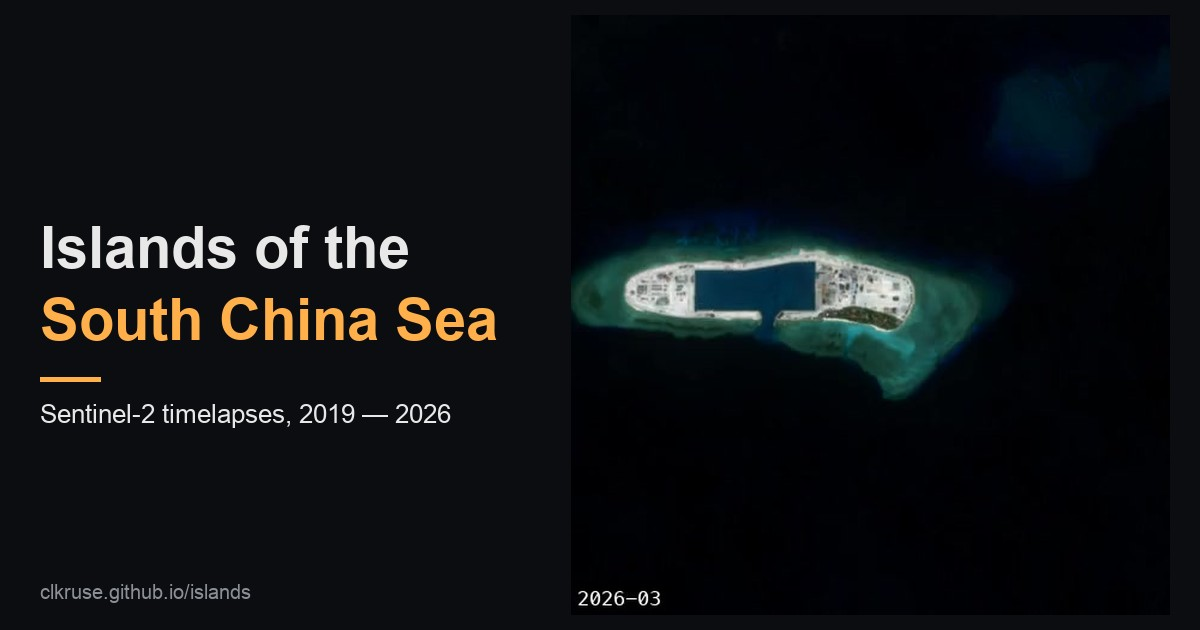
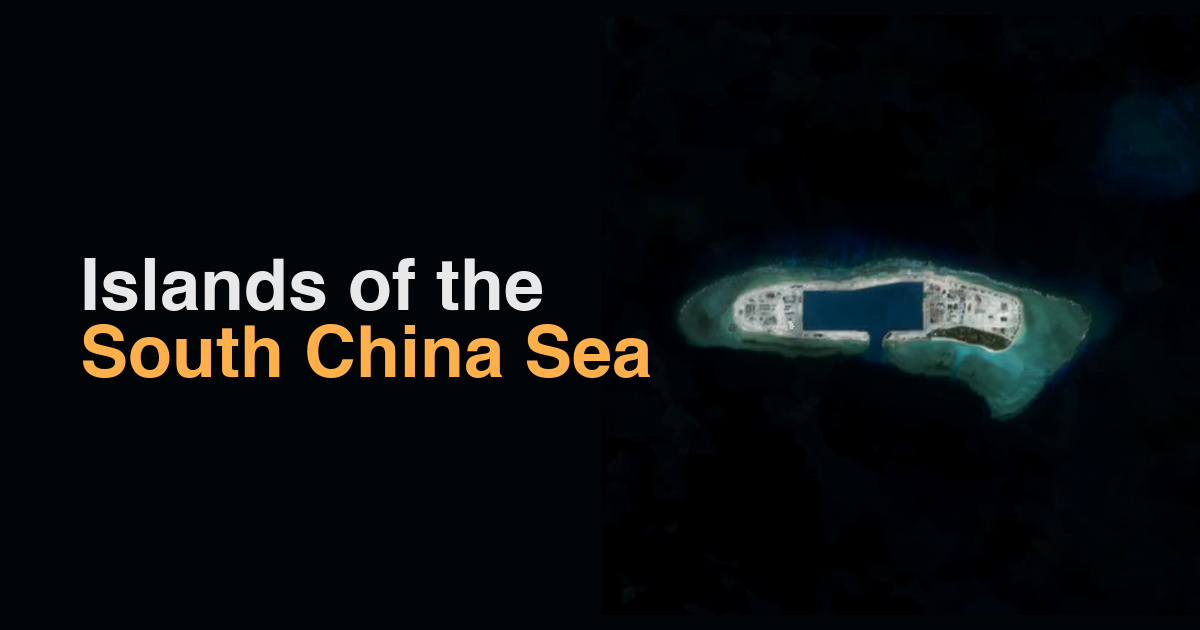
Update og card

diff --git a/islands/pipeline/build_og_card.py b/islands/pipeline/build_og_card.py
@@ -1,0 +1,185 @@
+"""Build the OG / social card for the islands page.
+
+Outputs (1200×630):
+  assets/og-card.jpg  — static frame
+  assets/og-card.mp4  — animated card
+  assets/og-card.gif  — animated GIF
+
+Layout: title on the left, Namyit Island timelapse on the right.
+
+Usage:  python pipeline/build_og_card.py
+"""
+
+from __future__ import annotations
+
+import subprocess
+from pathlib import Path
+
+from PIL import Image, ImageDraw, ImageFont
+
+ROOT = Path(__file__).resolve().parent.parent
+ASSETS = ROOT / "assets"
+SOURCE_VIDEO = ASSETS / "videos" / "namyit-island.mp4"
+
+OUT_JPG = ASSETS / "og-card.jpg"
+OUT_MP4 = ASSETS / "og-card.mp4"
+OUT_GIF = ASSETS / "og-card.gif"
+TMP_OVERLAY = Path("/tmp/og-overlay.png")
+TMP_PALETTE = Path("/tmp/og-palette.png")
+
+W, H = 1200, 630
+LEFT_W = 600
+
+BG = (1, 5, 8, 255)           # #010508 — sampled from deep SCS water
+BG_HEX = "0x010508"           # ffmpeg form
+FG = (232, 232, 232, 255)     # #e8e8e8
+ACCENT = (255, 176, 74, 255)  # #ffb04a
+
+# Right pane: place the 500×500 timelapse scaled up to 600×600, centered
+# vertically inside the 630-tall canvas.
+RIGHT_X = LEFT_W
+RIGHT_Y = (H - 600) // 2
+RIGHT_SIZE = 600
+
+# Each timelapse runs from 2019-01 at 10 fps (1 frame per month). Show
+# 2020-06 → 2025-12: skip first 17 frames, then play 67 frames = 6.7s.
+TRIM_START_S = 1.7
+DURATION_S = 6.7
+
+FONT_CANDIDATES = [
+    "/System/Library/Fonts/Supplemental/Helvetica.ttc",
+    "/System/Library/Fonts/Helvetica.ttc",
+    "/System/Library/Fonts/Supplemental/HelveticaNeue.ttc",
+    "/System/Library/Fonts/Supplemental/Arial.ttf",
+]
+
+
+def load_font(size: int, weight_index: int = 1) -> ImageFont.FreeTypeFont:
+    for path in FONT_CANDIDATES:
+        try:
+            return ImageFont.truetype(path, size, index=weight_index)
+        except (OSError, IOError):
+            continue
+    return ImageFont.load_default()
+
+
+def text_size(font: ImageFont.FreeTypeFont, s: str) -> tuple[int, int]:
+    bbox = font.getbbox(s)
+    return bbox[2] - bbox[0], bbox[3] - bbox[1]
+
+
+def render_overlay() -> None:
+    """Render the 1200×630 overlay: solid left panel with the title; right
+    side fully transparent so the video shows through."""
+    img = Image.new("RGBA", (W, H), (0, 0, 0, 0))
+    draw = ImageDraw.Draw(img)
+    draw.rectangle([(0, 0), (LEFT_W, H)], fill=BG)
+
+    line1 = "Islands of the"
+    line2 = "South China Sea"
+
+    font = load_font(72, weight_index=1)  # Helvetica Bold
+    pad_x = 80
+    line_gap = 14
+
+    w1, h1 = text_size(font, line1)
+    w2, h2 = text_size(font, line2)
+    total_h = h1 + line_gap + h2
+    y0 = (H - total_h) // 2
+
+    draw.text((pad_x, y0), line1, font=font, fill=FG)
+    draw.text((pad_x, y0 + h1 + line_gap), line2, font=font, fill=ACCENT)
+
+    img.save(TMP_OVERLAY)
+
+
+def build_mp4() -> None:
+    cmd = [
+        "ffmpeg", "-y",
+        "-ss", f"{TRIM_START_S}",
+        "-stream_loop", "-1",
+        "-i", str(SOURCE_VIDEO),
+        "-loop", "1",
+        "-i", str(TMP_OVERLAY),
+        "-filter_complex",
+        (
+            f"color=c={BG_HEX}:s={W}x{H}:r=10:d={DURATION_S}[bg];"
+            f"[0:v]scale={RIGHT_SIZE}:{RIGHT_SIZE},setsar=1[vid];"
+            f"[bg][vid]overlay={RIGHT_X}:{RIGHT_Y}:shortest=0[withvid];"
+            f"[withvid][1:v]overlay=0:0:shortest=1[final]"
+        ),
+        "-map", "[final]",
+        "-t", f"{DURATION_S}",
+        "-c:v", "libx264",
+        "-pix_fmt", "yuv420p",
+        "-preset", "slow",
+        "-crf", "20",
+        "-movflags", "+faststart",
+        "-an",
+        str(OUT_MP4),
+    ]
+    subprocess.run(cmd, check=True)
+
+
+def build_jpg() -> None:
+    """Render the still directly from a source frame + overlay so the JPG
+    avoids the MP4's lossy round-trip. Crisper text, cleaner reef edges.
+    Picks the last frame of the trimmed window so the still matches the
+    final frame of the animated card."""
+    tmp_frame = Path("/tmp/og-source-frame.png")
+    last_frame_t = TRIM_START_S + DURATION_S - 0.05
+    subprocess.run([
+        "ffmpeg", "-y",
+        "-ss", f"{last_frame_t}",
+        "-i", str(SOURCE_VIDEO),
+        "-frames:v", "1",
+        "-c:v", "png",
+        str(tmp_frame),
+    ], check=True)
+
+    canvas = Image.new("RGB", (W, H), BG[:3])
+    frame = Image.open(tmp_frame).convert("RGB").resize(
+        (RIGHT_SIZE, RIGHT_SIZE), Image.LANCZOS
+    )
+    canvas.paste(frame, (RIGHT_X, RIGHT_Y))
+
+    overlay = Image.open(TMP_OVERLAY).convert("RGBA")
+    canvas.paste(overlay, (0, 0), overlay)
+
+    canvas.save(OUT_JPG, "JPEG", quality=95, subsampling=0, optimize=True)
+
+
+def build_gif() -> None:
+    # Smaller dimensions + lower fps keeps the GIF size reasonable. Social
+    # cards never display at native resolution, so the scaledown is invisible.
+    gif_filter = "fps=8,scale=800:420:flags=lanczos"
+    subprocess.run([
+        "ffmpeg", "-y",
+        "-i", str(OUT_MP4),
+        "-vf", f"{gif_filter},palettegen=stats_mode=diff",
+        str(TMP_PALETTE),
+    ], check=True)
+    subprocess.run([
+        "ffmpeg", "-y",
+        "-i", str(OUT_MP4),
+        "-i", str(TMP_PALETTE),
+        "-filter_complex", f"{gif_filter}[v];[v][1:v]paletteuse=dither=bayer:bayer_scale=5",
+        str(OUT_GIF),
+    ], check=True)
+
+
+def main() -> None:
+    print(f"rendering overlay -> {TMP_OVERLAY}")
+    render_overlay()
+    print(f"building mp4      -> {OUT_MP4}")
+    build_mp4()
+    print(f"building jpg      -> {OUT_JPG}")
+    build_jpg()
+    print(f"building gif      -> {OUT_GIF}")
+    build_gif()
+    for p in (OUT_JPG, OUT_MP4, OUT_GIF):
+        print(f"  {p}  ({p.stat().st_size:,} bytes)")
+
+
+if __name__ == "__main__":
+    main()